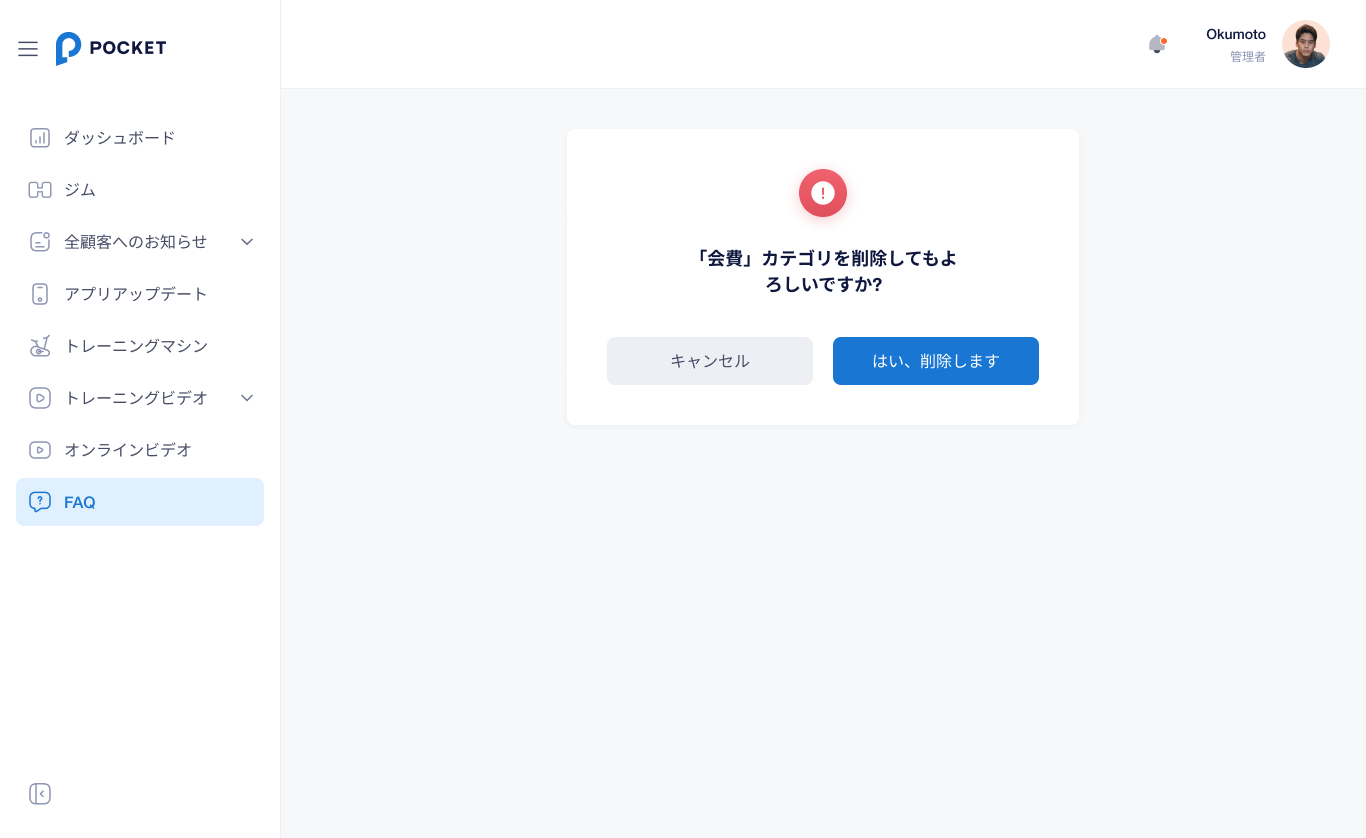
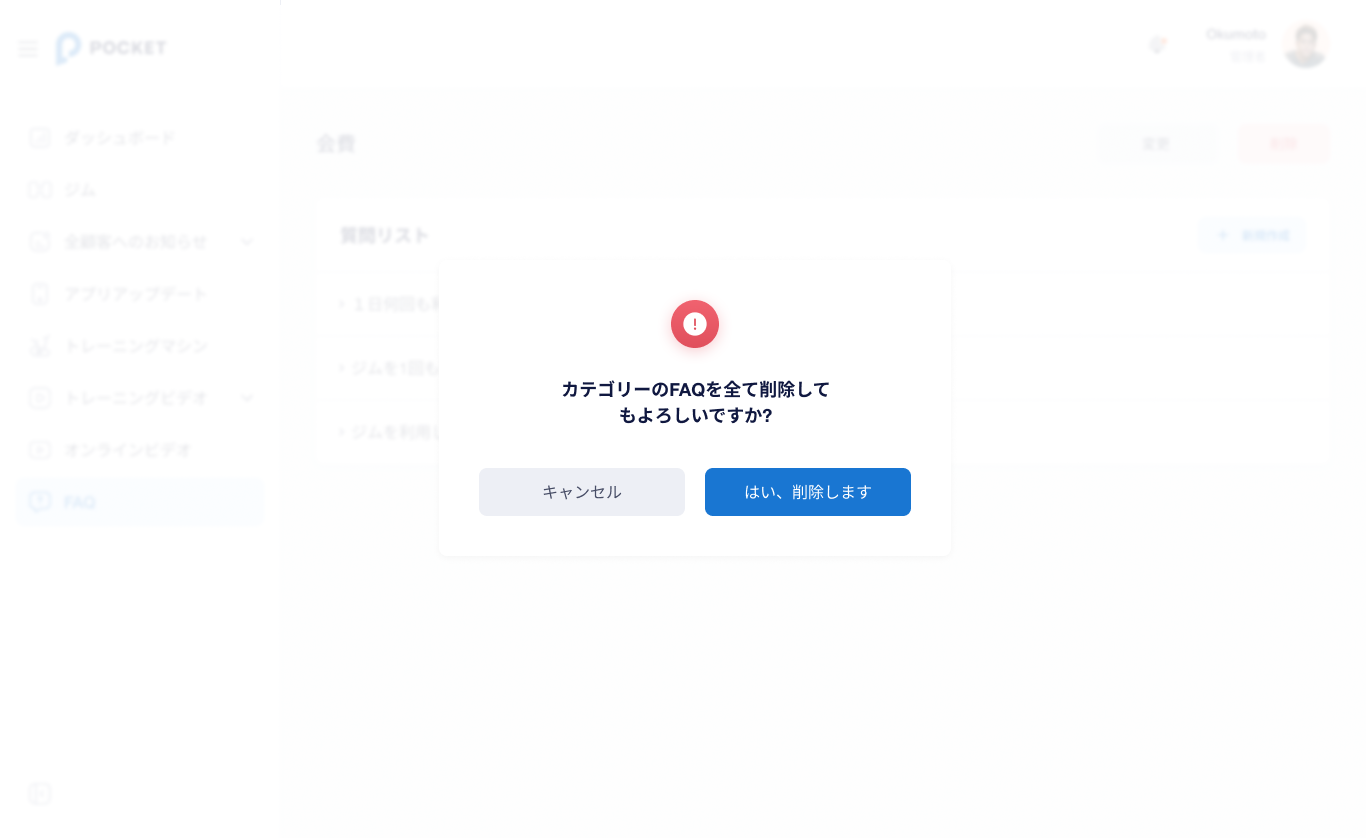
Update 301.jp-md

diff --git a/301-jp.md b/301-jp.md
@@ -1,15 +1,7 @@
 # 【CMS】 **FAQ** 画面
 
-<TO anh Sinh: Biểu tượng cái chuông bên góc phải có cần đưa vào thiết kế không ạ?>
-
-<Phần cái chuông không cần đâu em>
-
 ##　1．カテゴリー画面
 カテゴリーごとに質問を見れる画面である。この画面で操作することによって、カテゴリーの詳細確認、カテゴリーを新規作成することができる。
-
-<TO anh Sinh: Trên màn hình có vẻ chỉ hiển thị được max 6 category. Nếu nhiều hơn thì sẽ scroll xuống hay sao ạ? Có cần thêm phần này vào thiết kế không anh?>
-
-<nếu nhiều category thì sẽ scroll màn hình để view thôi em>
 
 ![nf](image/jp/cms/301/FAQ-category-screen.png)
 
@@ -23,23 +15,18 @@
 - APIデータ：
     - `施設サービス`：カテゴリー名
     - `>1日何回も利用できる？`：質問
-    - `>ジムを1回も利用しなくても、会費はかかりますか？`：質問
-    - `ジムを利用したことがなくても会費はかかりますか`：質問
-<thêm 1 note click vô câu hỏi nào thì qua trang chi tiết của câu hỏi đó>
+    - `>ジムを1回も利用しなくても、会費はかかりますか？`：質問。押下すると **該当の質問詳細画面** に遷移する。
+    - `ジムを利用したことがなくても会費はかかりますか`：質問。押下すると **該当の質問詳細画面** に遷移する。
 
 #### 1.2　すべて表示する `ボタン`
 
-<TO anh Sinh: Nhờ anh check xem phần này đúng chưa ạ>
+- カテゴリーごとの質問が２つ以下の場合、すべて表示する`ボタン`を表示しない。その場合、質問をタップすると、 **3．質問詳細画面** に直接に遷移する。
 
-<phần này đúng rồi em>
-
-- カテゴリーごとの質問が２つ以下の場合、すべて表示する`ボタン`を表示しない。その場合、質問をタップすると、**3．質問詳細画面**に直接に遷移する。
-
-- カテゴリーごとの質問が3つ以上の場合、すべて表示する`ボタン`を表示する。すべて表示する`ボタン`を押下すると、**2．カテゴリー詳細画面**に遷移する。
+- カテゴリーごとの質問が3つ以上の場合、すべて表示する`ボタン`を表示する。すべて表示する`ボタン`を押下すると、 **2．カテゴリー詳細画面** に遷移する。
 
 #### 1.3　新規作成 `ボタン`
 
-- 新規作成`ボタン`を押下すると、**4．カテゴリー新規作成画面**に遷移する
+- 新規作成`ボタン`を押下すると、 **4．カテゴリー新規作成画面** に遷移する
 
 #### 1.4 エラー一覧（Error List）
 
@@ -56,40 +43,35 @@
 - APIデータ：
     - `会費`：カテゴリー名
     - `質問リスト`：リストのタイトル
-    - `>1日何回も利用できる？`：質問。押下すると**該当の質問詳細画面**に遷移する。
-    - `>ジムを1回も利用しなくても、会費はかかりますか？`：質問。押下すると**該当の質問詳細画面**に遷移する。
-    - `ジムを利用したことがなくても会費はかかりますか`：質問。押下すると**該当の質問詳細画面**に遷移する。
+    - `>1日何回も利用できる？`：質問。押下すると **該当の質問詳細画面** に遷移する。
+    - `>ジムを1回も利用しなくても、会費はかかりますか？`：質問。押下すると **該当の質問詳細画面** に遷移する。
+    - `ジムを利用したことがなくても会費はかかりますか`：質問。押下すると **該当の質問詳細画面** に遷移する。
 
 ####　2.2 更新 `ボタン`
 
-- 更新`ボタン`を押下すると、**7. カテゴリー名更新画面**に遷移する。
+- 更新`ボタン`を押下すると、 **カテゴリー名更新画面** に遷移する。
 
-<Task: Cần thêm 1 màn hình update category name>
-<Màn hình add edit có thể gom chung lại thành 1 tên. ví dụ như カテゴリー名更新・追加画面>
+####　2.3 新規作成 `ボタン`
 
-####　2.3 削除 `ボタン`
+- 新規作成`ボタン`を押下すると、 **5．質問・回答の新規作成画面** に遷移する。
 
-- 削除`ボタン`を押下すると、**6．カテゴリー削除時の確認画面**に遷移する。
+####　2.4 削除 `ボタン`
 
-<Phần này em không cần phải làm riêng 1 màn hình làm gì, có thể viết như sau>
+- 削除`ボタン`を押下すると、削除かどうかのポップアップが表示される。
+   - `はい、削除します`ボタンを押下すると、カテゴリーのFAQを全て削除し、 **1．カテゴリー画面** に遷移する。
+   - `キャンセル`ボタンを押下すると、 削除せずに **2．カテゴリー詳細画面** に戻る。
 
-- 削除`ボタン`を押下すると、削除かどうかのポップアップが表示されます。
-    - `はい、削除します`ボタンを押下すると、カテゴリーのFAQを全て削除する
-    - `キャンセル`ボタンを押下すると、 **2．カテゴリー詳細画面** に戻る
-
-####　2.4 新規作成 `ボタン`
-
-- 新規作成`ボタン`を押下すると、**5．質問・回答の新規作成画面**に遷移する。
+![nf](image\jp\cms\301\FAQ-category-delete-confirm.png)
 
 ####  2.5 エラー一覧（Error List）
 
 `None`
 
-##　3．質問詳細画面
+##　3．FAQ詳細画面
 
 質問と回答の内容を確認できる。この画面で操作することによって、質問と回答の内容を更新・削除することができる。
 
-![nf](image\jp\cms\301\FAQ-question-answer-edit.png)
+![nf](image\jp\cms\301\FAQ-question-answer-detail.png)
 
 #### 3.1 項目／イベント定義
 - APIデータ：
@@ -98,20 +80,19 @@
 
 #### 3.2 ←戻る `ボタン`
 
-- ←戻る`ボタン`を押下すると、**2．カテゴリー詳細画面**に遷移する。
+- ←戻る`ボタン`を押下すると、 **2．カテゴリー詳細画面** に遷移する。
 
 #### 3.3 更新 `ボタン`
 
-- 更新`ボタン`を押下すると、**XXXXX**に遷移する。
-
-<Task: cần thêm 1 màn hình update câu hỏi, câu trả lời>
+- 更新`ボタン`を押下すると、 **5.2　FAQの更新画面** に遷移する。
 
 #### 3.4 削除 `ボタン`
 
-- 更新`ボタン`を押下すると、**XXXXX**に遷移する。
+- 削除`ボタン`を押下すると、削除かどうかのポップアップが表示される。
+   - `はい、削除します`ボタンを押下すると、FAQを削除し、 **2．カテゴリー詳細画面** に遷移する。
+   - `キャンセル`ボタンを押下すると、 **3．FAQ詳細画面** に戻る
 
-＜Task: Cần tạo thêm 1 màn hình confirm xóa câu hỏi＞
-<Tương tự như phần xoá category>
+![nf](image\jp\cms\301\FAQ-question-delete-confirm.png)
 
 ####  3.5 エラー一覧（Error List）
 
@@ -133,44 +114,54 @@
 
 #### 4.2 保存せずに戻る `ボタン`
 
-- 保存せずに戻る`ボタン`を押下すると、保存させずに**1．カテゴリー画面**に遷移する。
+- 保存せずに戻る`ボタン`を押下すると、保存させずに **1．カテゴリー画面** に遷移する。
 
 #### 4.3 保存 `ボタン`
 
-- 保存`ボタン`を押下すると、データを保存し、**1．カテゴリー画面**に遷移する。質問のエリアが空白で、すべて表示する `ボタン`を表示しないこと。
-
-<Thêm ảnh minh họa màn hình category>
+- 保存`ボタン`を押下すると、データを保存し、 **1．カテゴリー画面** に遷移する。質問のエリアが空白で、すべて表示する `ボタン`を表示しないこと。
 
 #### 4.4 エラー一覧（Error List）
 
 - 「カテゴリー名を追加」の入力欄が未入力、または100文字を超えた場合、エラーとする。`「カテゴリー名を100文字以内で入力してください。」`のメッセージを表示する。
 
-##　5．質問・回答の新規作成画面
+##　5．FAQの新規作成・更新画面
 
-新しい質問・回答を新規作成する画面である。
+### 5.1 FAQの新規作成画面
+
+新しいFAQを新規作成する画面である。
 
 ![nf](image\jp\cms\301\FAQ-question-answer-create.png)
 
-#### 5.1 項目／イベント定義
-
 - APIデータ：
     - `質問を追加`：タイトル
-    - `質問`：項目名
-    - `答え`：項目名
+
+### 5.2　FAQの更新画面
+
+FAQを更新する画面である。
+
+![nf](image\jp\cms\301\FAQ-question-answer-edit.png)
+
+- APIデータ：
+    - `質問変更`：タイトル
+
+### 5.1と5.2の共通
+#### APIデータ：
+- `質問`：項目名
+- `答え`：項目名
 - 質問を書く：
 入力欄。必須入力。文字のみ入力可能。100文字までとする。
 - 答えを書く：
 入力欄。必須入力。文字のみ入力可能。255文字までとする。
 
-#### 5.2 保存せずに戻る `ボタン`
+#### 保存せずに戻る `ボタン`
 
-- 保存せずに戻る`ボタン`を押下すると、保存させずに**2．カテゴリー詳細画面**に遷移する。
+- 保存せずに戻る`ボタン`を押下すると、保存させずに **2．カテゴリー詳細画面** に遷移する。
 
-#### 5.3 保存 `ボタン`
+#### 保存 `ボタン`
 
-- 保存`ボタン`を押下すると、データを保存し、**2．カテゴリー詳細画面**に遷移する。新規作成した質問と回答を表示すること。
+- 保存`ボタン`を押下すると、データを保存し、 **2．カテゴリー詳細画面** に遷移する。新規作成した質問と回答を表示すること。
 
-#### 5.4 エラー一覧（Error List）
+#### エラー一覧（Error List）
 
 -　保存`ボタン`を押下する時にバリデーションチェックを行う。
 
@@ -178,34 +169,27 @@
 
 - 「答えを書く」の入力欄が未入力、または、255文字を超えた場合、エラーとする。`「答えを255文字以内で入力してください。」`のメッセージを表示する。
 
-##　6．カテゴリー削除時の確認画面
+##　6．カテゴリー名更新・新規作成画面
 
-<Màn hình này sẽ không cần>
+### 6.1 カテゴリーの新規作成画面
 
-カテゴリーを削除する時に表示する確認画面である。
+新しいカテゴリーを新規作成する画面である。
 
-![nf](image\jp\cms\301\FAQ-category-delete-confirm.png)
-
-#### 6.1 項目／イベント定義
+![nf](image\jp\cms\301\FAQ-category-create.png)
 
 - APIデータ：
-    - 「`会費`」カテゴリを削除してもよろしいですか？：確認メッセージ。`「」`内に削除対象のカテゴリー名を表示する。
+    - `新しいカテゴリーを作成`：タイトル
 
-#### 6.2 キャンセル `ボタン`
-
-- キャンセル`ボタン`を押下すると、削除させずに**2．カテゴリー詳細画面**に遷移する。
-
-#### 6.3 はい、削除します `ボタン`
-
-- はい、削除します`ボタン`を押下すると、データを削除し、**1．カテゴリー画面**に遷移する。**1．カテゴリー画面**にて削除対象のカテゴリーを表示しないこと。
-
-##　7．カテゴリー名更新画面
+### 6.2 カテゴリー名更新画面
 
 カテゴリー名を更新する画面である。
 
 ![nf](image\jp\cms\301\FAQ-category-name-edit.png)
 
-#### 7.1 項目／イベント定義
+- APIデータ：
+    - `カテゴリー変更`：タイトル
+
+### 6.1と6.2の共通
 
 - APIデータ：
     - `新カテゴリー名を更新`：タイトル
@@ -213,14 +197,14 @@
 - カテゴリー名を更新：
 入力欄。必須入力。文字のみ入力可能。100文字までとする。
 
-#### 7.2 保存せずに戻る `ボタン`
+#### 保存せずに戻る `ボタン`
 
-- 保存せずに戻る`ボタン`を押下すると、保存させずに**2．カテゴリー詳細画面**に遷移する。
+- 保存せずに戻る`ボタン`を押下すると、保存させずに **2．カテゴリー詳細画面** に遷移する。
 
-#### 7.3 保存 `ボタン`
+#### 保存 `ボタン`
 
-- 保存`ボタン`を押下すると、データを保存し、**2．カテゴリー詳細画面**に遷移する。更新したカテゴリー名を表示すること。
+- 保存`ボタン`を押下すると、データを保存し、 **2．カテゴリー詳細画面** に遷移する。更新したカテゴリー名を表示すること。
 
-#### 7.4 エラー一覧（Error List）
+#### エラー一覧（Error List）
 
 - 「カテゴリー名を更新」の入力欄が未入力、または100文字を超えた場合、エラーとする。`「カテゴリー名を100文字以内で入力してください。」`のメッセージを表示する。
